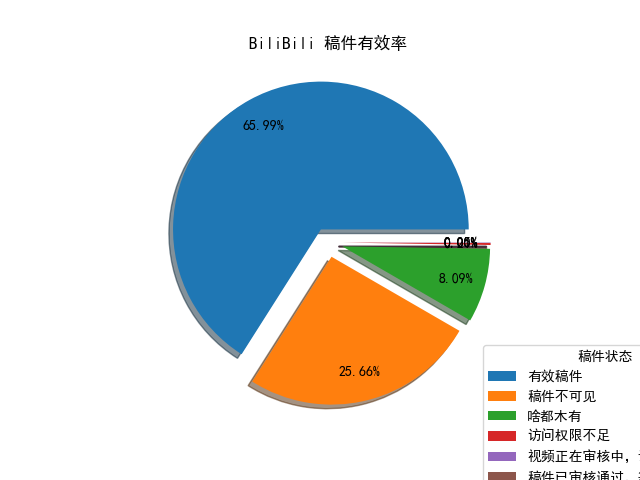
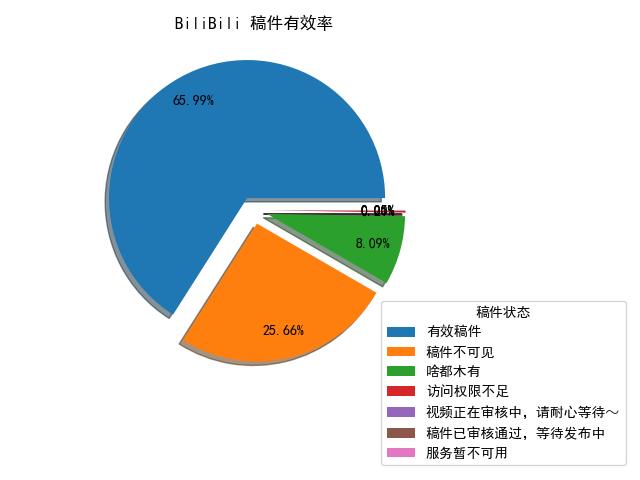
fix show.png problem
fix show.png problem

diff --git a/Video Ratio/show.py b/Video Ratio/show.py
@@ -16,9 +16,10 @@ plt.title("BiliBili 稿件有效率")
 plt.legend(wedges, type,
           title="稿件状态",
           loc="center left",
-          bbox_to_anchor=(0.9,0))
+          bbox_to_anchor=(0.85,0))
 # 设置数字标签
 # for a, b in zip(type, video_counts):
 #     plt.text(a, b, b, ha='center', va='bottom', fontsize=10)
+plt.tight_layout()
 plt.savefig("show.png")
 plt.show()
